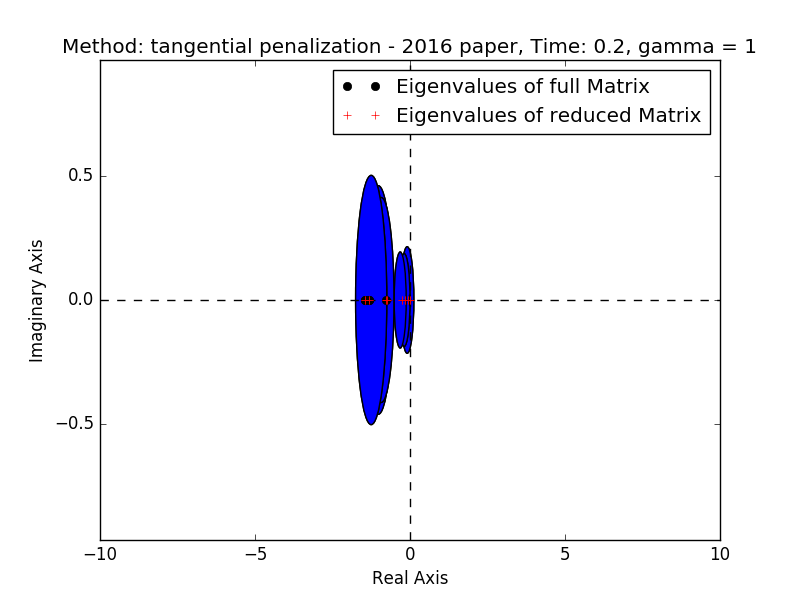
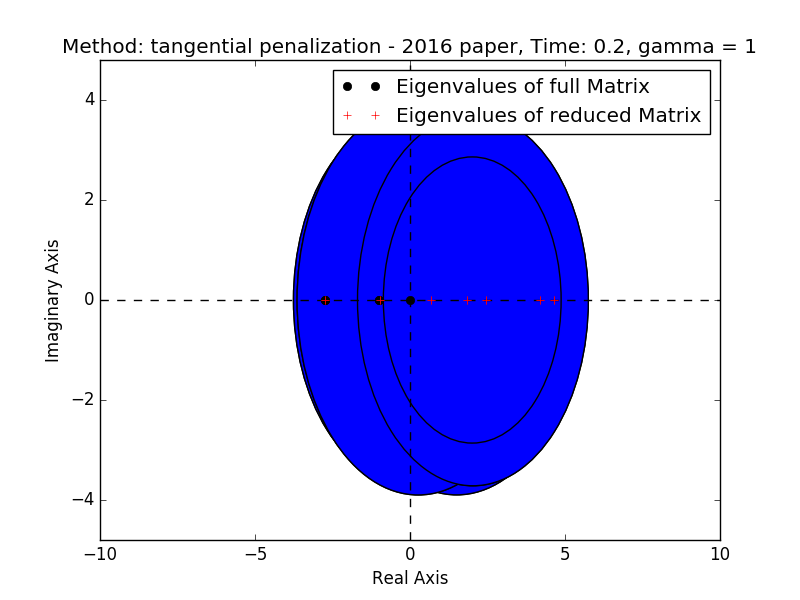
changes

diff --git a/backflow_exp/nse_test.py b/backflow_exp/nse_test.py
@@ -153,6 +153,8 @@ def nse(Re=1000, temam=False, bfs=False, level=1, velocity_degree=2, eps=0.0002,
         runtype = round(assemble(beta * ds(2)), 3)
     elif param == 'gamma':
         runtype = round(assemble(gamma * ds(2)))
+    else:
+        runtype = 'nostab'
 
     suf = 'bfs{}_tem{}_Re{}_'.format(int(bfs), int(temam), Re) + param + '_' + '{}_'.format(runtype)
     if velocity_degree == 1:
@@ -370,7 +372,7 @@ def nse(Re=1000, temam=False, bfs=False, level=1, velocity_degree=2, eps=0.0002,
             
             maxiv   =   HF.maxUneg(W,mesh,u0)
             print(maxiv)
-            #maxi.assign(Constant(maxiv))
+            maxi.assign(Constant(maxiv))
             
             if len(laplace_backflow_final)>0:
                 eigenvals = LA.eigvals(laplace_backflow_final)
@@ -444,7 +446,7 @@ if __name__ == '__main__':
     Re = [5000]
 
     for Re_ in Re:
-        nse(Re_, level=1, temam=True, bfs=2, velocity_degree=1, eps=0.0001, dt=0.01, auto=False, plotcircles=2)
+        nse(Re_, level=1, temam=True, bfs=4, velocity_degree=1, eps=0.0001, dt=0.01, auto=False, plotcircles=2)
 
         ## Weird results for the stabilization if bfs = 2,3. Stabilization Energy is too high
 

diff --git a/backflow_exp/HelperFuncs.py b/backflow_exp/HelperFuncs.py
@@ -20,6 +20,8 @@ def abs_n(x):
 def maxUneg(W,mesh,u0):
     coords  =   mesh.coordinates()
     eps     =   1e-5
+    eps     =   0.033
+    #eps     =   mesh.hmin()
     # This is need to have done in order to extract the x component of u0 
     Vx      =   W.sub(0).sub(0).collapse()
     vx      =   Function(Vx)
@@ -27,8 +29,12 @@ def maxUneg(W,mesh,u0):
     # specifically for the line in x=5
     uval    =   vx.vector().get_local()
     uneg    =   uval[np.where(coords[:,0]>5-eps)]
-    #print(np.any(uneg<0))
-    return np.min(uneg)
+    ucandidate  =   np.min(uneg)   
+    
+    if ucandidate>0:
+        ucandidate = 0  
+    
+    return np.abs(ucandidate)
     
     
     
